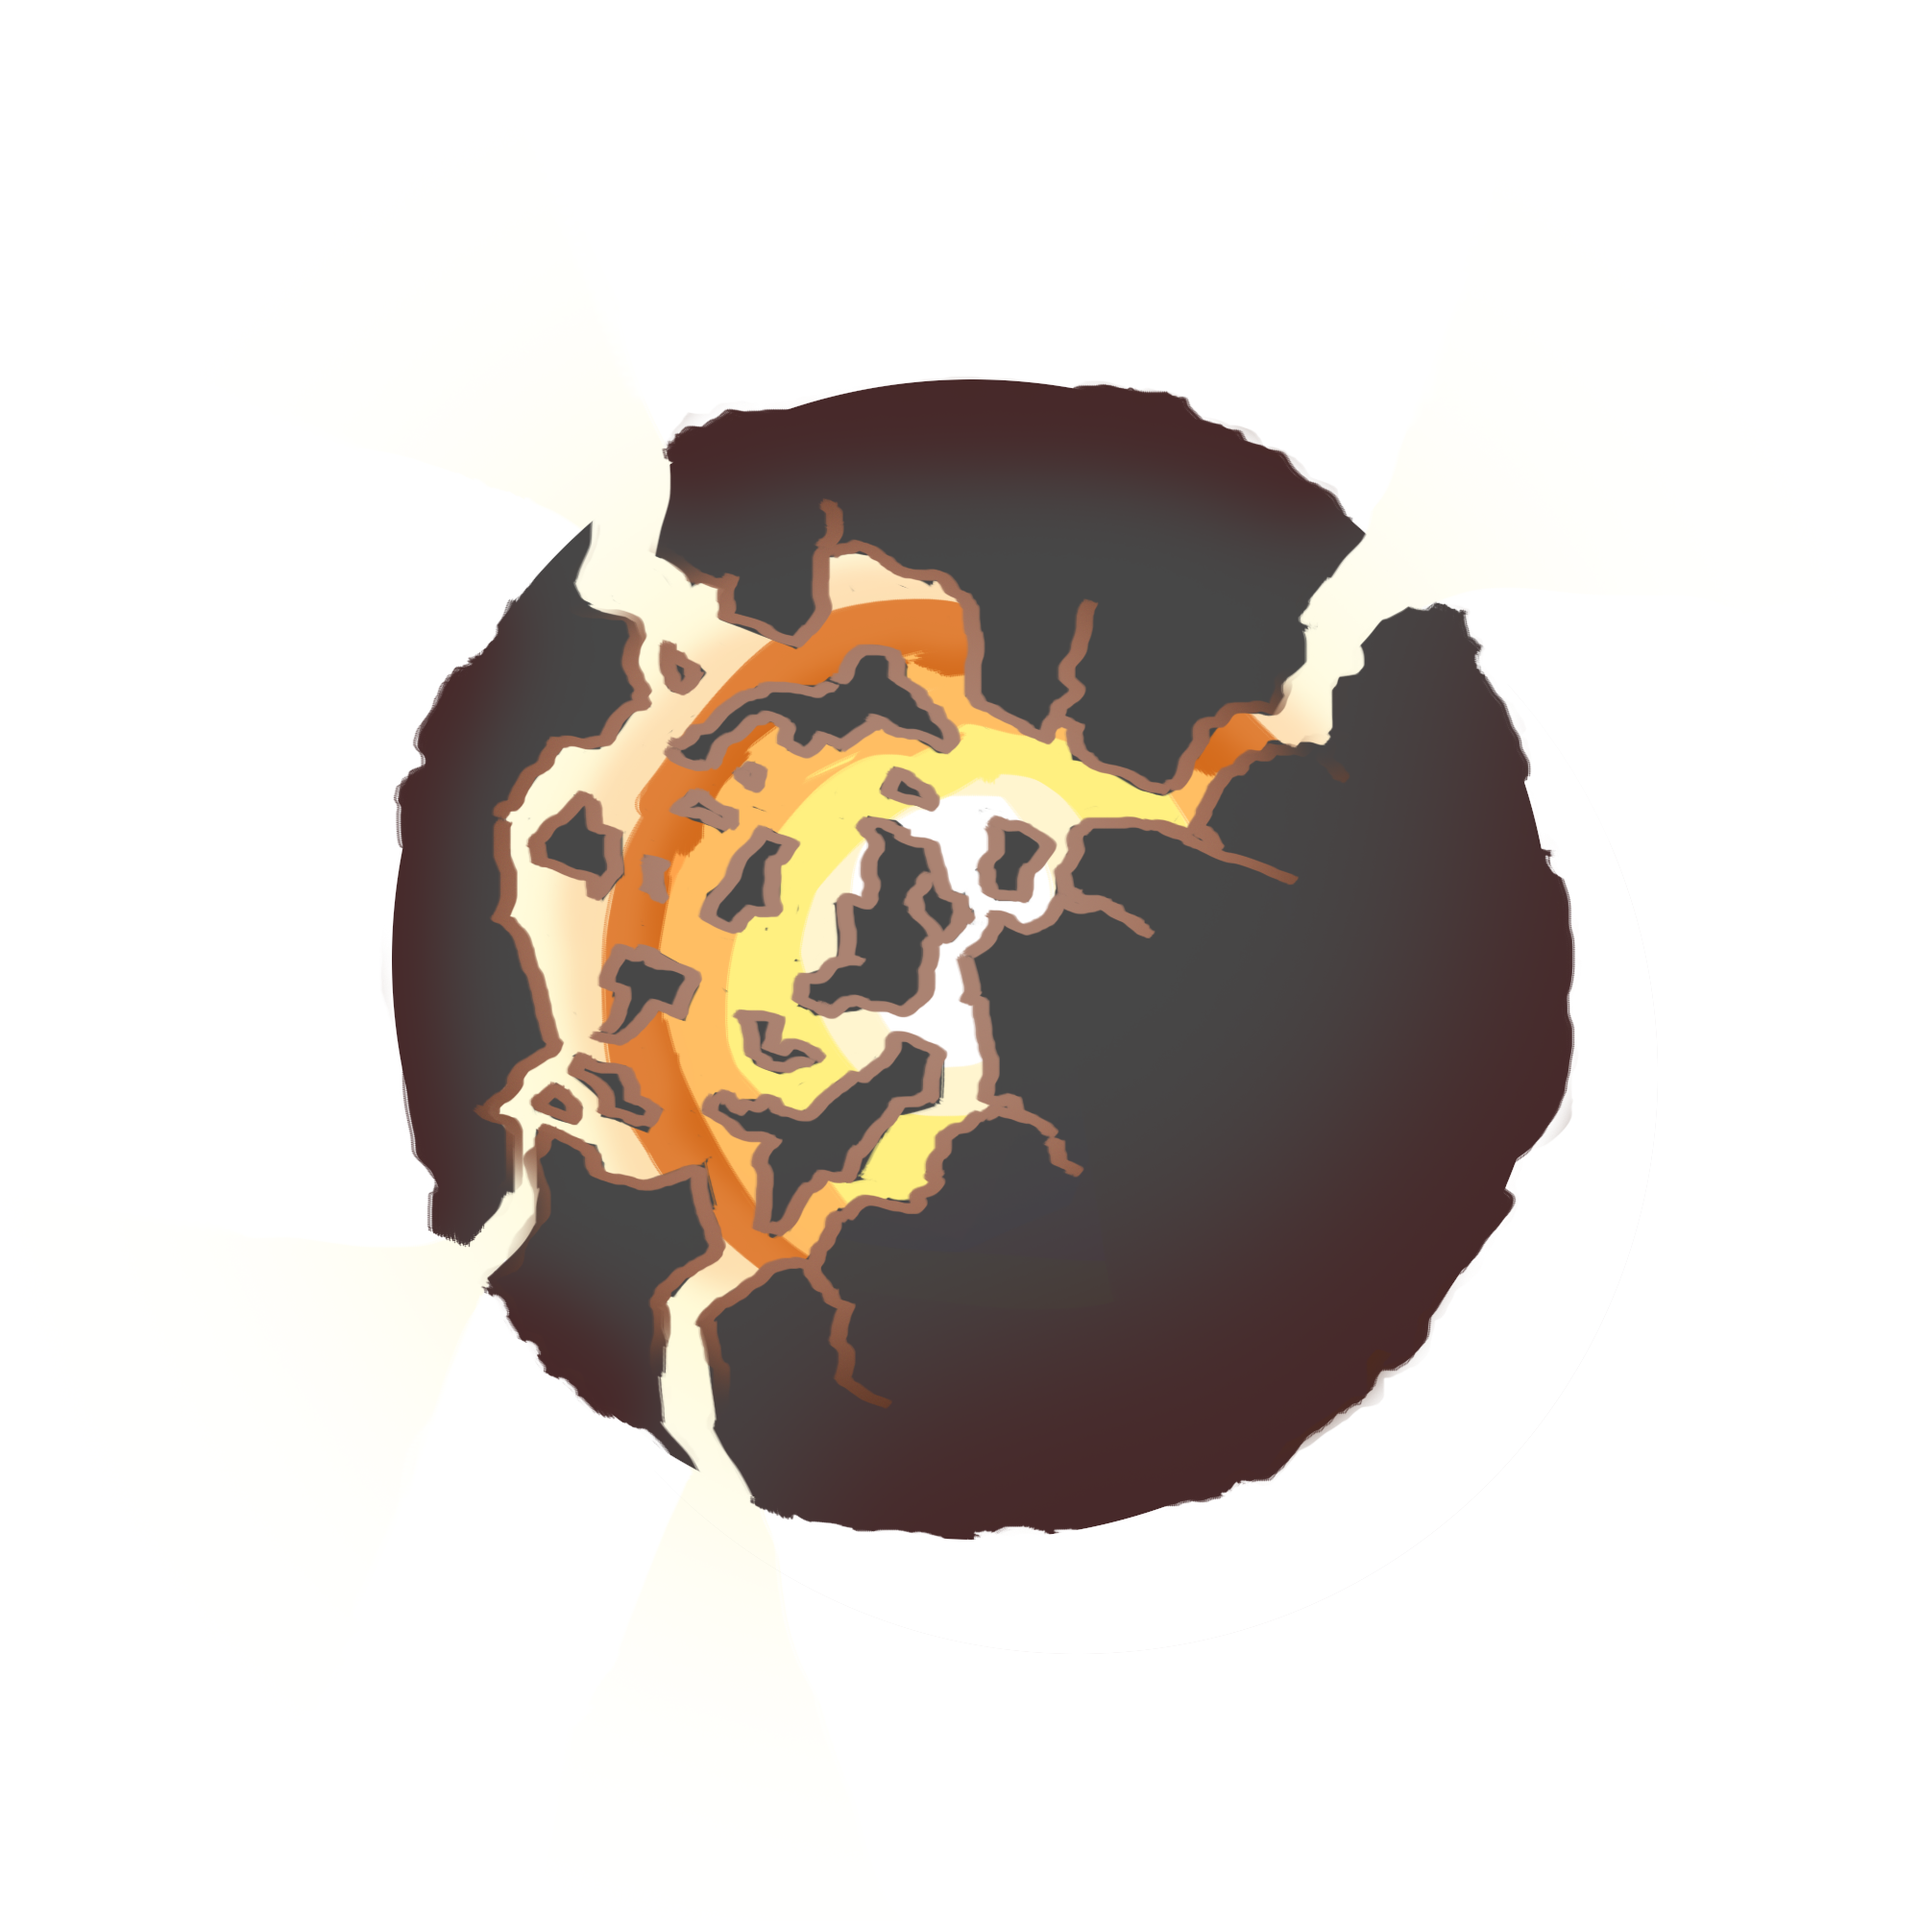
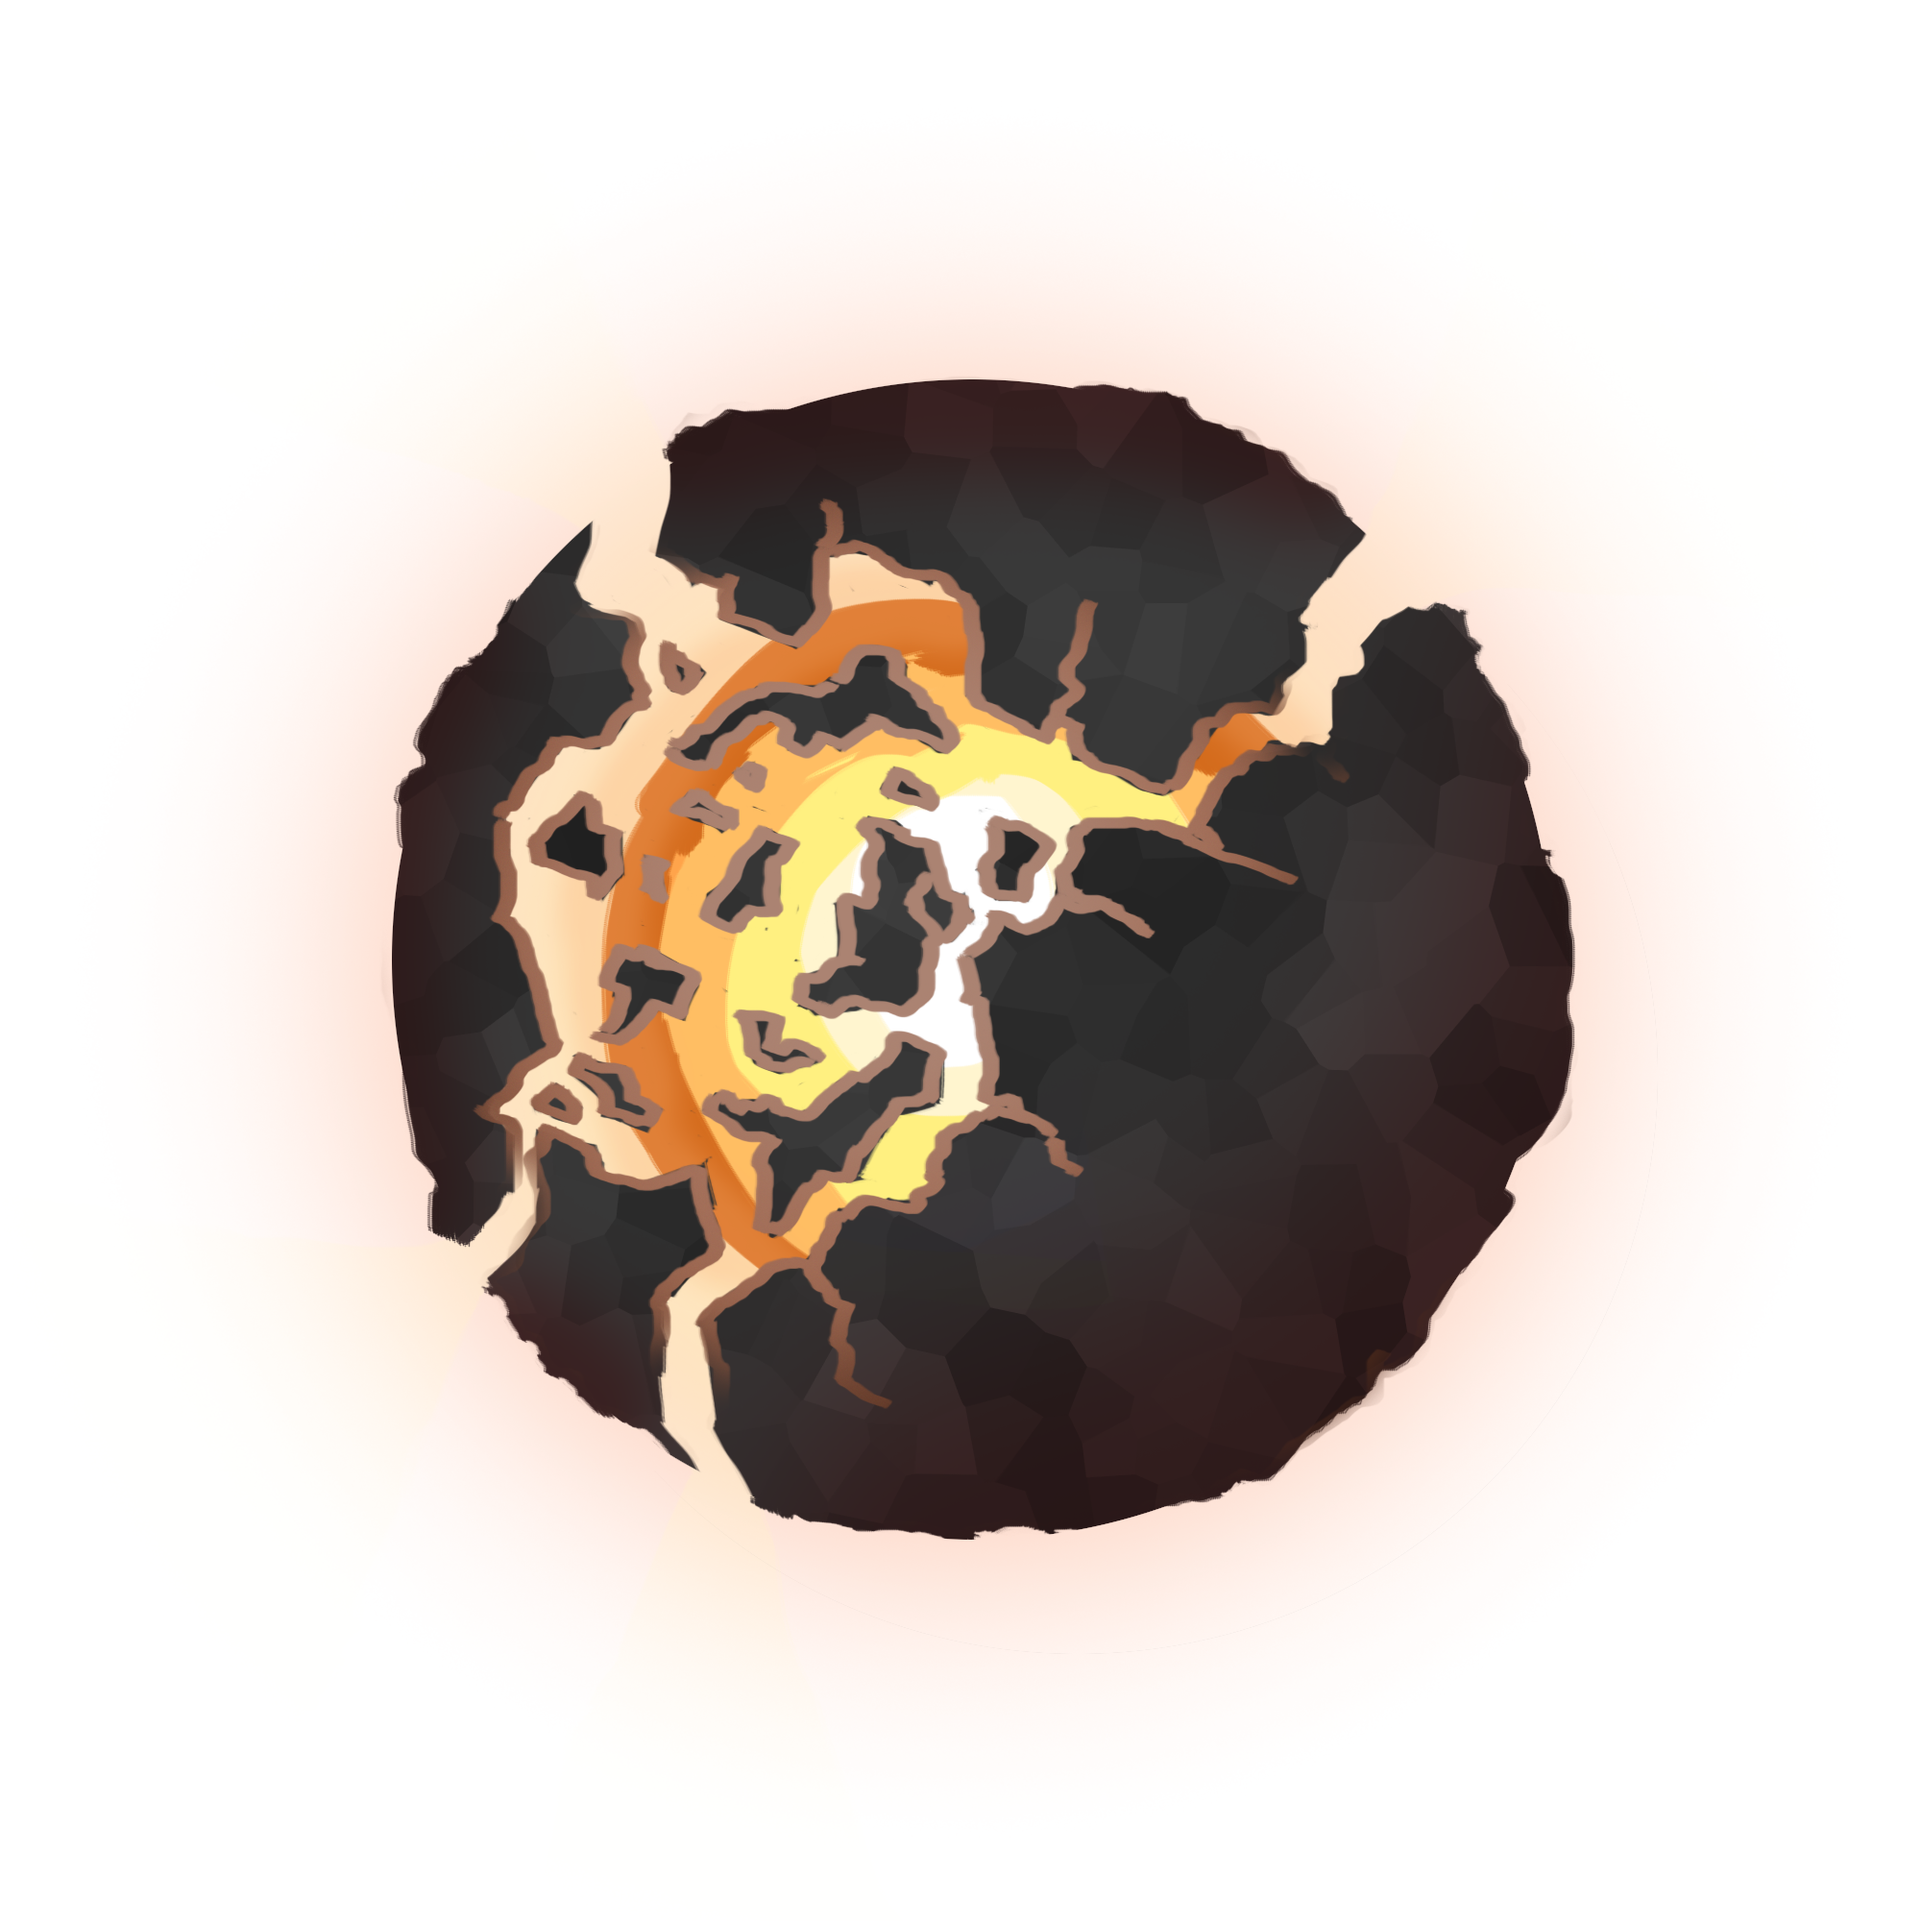
planets

Changed region(s): [[0.155, 0.155, 0.868, 0.868], [0.31, 0.496, 0.372, 0.527], [0.341, 0.372, 0.372, 0.403]]

diff --git a/0ca181a8-3bca-4e14-aaec-635fb5f7cb6a/Game1.cs b/0ca181a8-3bca-4e14-aaec-635fb5f7cb6a/Game1.cs
@@ -20,6 +20,9 @@ namespace _0ca181a8_3bca_4e14_aaec_635fb5f7cb6a
         public int ScreenWidth => 1600;
         public int ScreenHeight => 900;
 
+        public double ScaleHack = 2;
+
+
         public Game1()
         {
             _graphics = new GraphicsDeviceManager(this);
@@ -66,7 +69,8 @@ namespace _0ca181a8_3bca_4e14_aaec_635fb5f7cb6a
                 Content.Load<Texture2D>("Planet3"),
                 Content.Load<Texture2D>("Planet4"),
                 Content.Load<Texture2D>("Planet5"),
-                Content.Load<Texture2D>("Planet6")
+                Content.Load<Texture2D>("Planet6"),
+                Content.Load<Texture2D>("Planet7"),
             };
             Resources.BlueEngine = new List<Texture2D>(){
                 Content.Load<Texture2D>("Engines/blueng-512"),
@@ -81,6 +85,11 @@ namespace _0ca181a8_3bca_4e14_aaec_635fb5f7cb6a
                 Content.Load<Texture2D>("Engines/redeng2-512"),
                 Content.Load<Texture2D>("Engines/redeng3-512"),
                 Content.Load<Texture2D>("Engines/redeng4-512")
+            };
+            Resources.PulsingPlanet = new List<Texture2D>(){
+                Content.Load<Texture2D>("planet2-l1"),
+                Content.Load<Texture2D>("planet2-l2"),
+                Content.Load<Texture2D>("planet2-l3"),
             };
             Resources.PlayButton = Content.Load<Texture2D>("Bottoms/play1");
             Resources.PlayButtonHover = Content.Load<Texture2D>("Bottoms/play2");
@@ -123,10 +132,12 @@ namespace _0ca181a8_3bca_4e14_aaec_635fb5f7cb6a
             world.Planets.Add(new Planet(new Vector(600, 500), 100, 0));
             world.Planets.Add(new Planet(new Vector(900, 800), 50, 1));
             world.Planets.Add(new Planet(new Vector(950, 100), 50, 4));
-            world.Planets.Add(new Planet(new Vector(1100, 680), 100, 5));
+            //world.Planets.Add(new Planet(new Vector(1100, 680), 100, 5));
+            world.Planets.Add(new BlendedPlanet(new Vector(1100, 680), 100));
             world.Planets.Add(new Planet(new Vector(300, 800), 90, 1));
             world.Planets.Add(new Planet(new Vector(1100, 100), 50, 5));
-            world.Planets.Add(new Planet(new Vector(850, 600), 90, 2));
+            //world.Planets.Add(new Planet(new Vector(850, 600), 90, 2));
+            world.Planets.Add(new PulsingPlanet(new Vector(850, 600), 90));
 
             var playbackManager = new PlaybackManager();
 
@@ -149,6 +160,8 @@ namespace _0ca181a8_3bca_4e14_aaec_635fb5f7cb6a
         protected override void Draw(GameTime gameTime)
         {
             GraphicsDevice.Clear(Color.Black);
+
+
 
             _spriteBatch.Begin();
             _spriteBatch.Draw(

diff --git a/0ca181a8-3bca-4e14-aaec-635fb5f7cb6a/Sim/PulsingPlanet.cs b/0ca181a8-3bca-4e14-aaec-635fb5f7cb6a/Sim/PulsingPlanet.cs
@@ -1,0 +1,55 @@
+using System;
+using System.Collections.Generic;
+using System.Linq;
+using System.Text;
+using System.Threading.Tasks;
+using Microsoft.Xna.Framework;
+using Microsoft.Xna.Framework.Graphics;
+using Microsoft.Xna.Framework.Input;
+
+namespace _0ca181a8_3bca_4e14_aaec_635fb5f7cb6a.Sim
+{
+    class PulsingPlanet : Planet
+    {
+        public PulsingPlanet(Vector position, double radius) : base(position, radius, 2)
+        {
+        }
+
+        public override void Draw(SpriteBatch sb)
+        {
+            var brightness = (float)(0.7 + Math.Sin(Game1.GlobalTimer * 6) * 0.3);
+
+            sb.Draw(
+                Resources.PulsingPlanet[0],
+                new Rectangle((int)(Position.X - Radius * 1.7), (int)(Position.Y - Radius * 1.7),
+                (int)(Radius * 3.4), (int)(Radius * 3.4)),
+                Color.White);
+
+            sb.Draw(
+                Resources.PulsingPlanet[1],
+                new Rectangle((int)(Position.X - Radius * 1.7), (int)(Position.Y - Radius * 1.7),
+                (int)(Radius * 3.4), (int)(Radius * 3.4)),
+                Color.White * brightness);
+
+            sb.Draw(
+                Resources.PulsingPlanet[2],
+                new Rectangle((int)(Position.X - Radius * 1.7), (int)(Position.Y - Radius * 1.7),
+                (int)(Radius * 3.4), (int)(Radius * 3.4)),
+                Color.White);
+
+            if (Keyboard.GetState().IsKeyDown(Keys.Space))
+            {
+                sb.Draw(
+                    Resources.Circle,
+                    new Rectangle((int)(Position.X - Radius), (int)(Position.Y - Radius),
+                    (int)(Radius * 2), (int)(Radius * 2)),
+                    Color.Red * 0.5f);
+            }
+        }
+
+        public override Planet Clone()
+        {
+            return new PulsingPlanet(Position, Radius);
+        }
+    }
+}

diff --git a/0ca181a8-3bca-4e14-aaec-635fb5f7cb6a/Sim/BlendedPlanet.cs b/0ca181a8-3bca-4e14-aaec-635fb5f7cb6a/Sim/BlendedPlanet.cs
@@ -1,0 +1,45 @@
+using Microsoft.Xna.Framework;
+using Microsoft.Xna.Framework.Graphics;
+using Microsoft.Xna.Framework.Input;
+using System;
+
+namespace _0ca181a8_3bca_4e14_aaec_635fb5f7cb6a.Sim
+{
+    class BlendedPlanet : Planet
+    {
+        public BlendedPlanet(Vector position, double radius) : base(position, radius, 2)
+        {
+        }
+
+        public override void Draw(SpriteBatch sb)
+        {
+            var brightness = (float)(0.5 + Math.Sin(Game1.GlobalTimer / 10) * 0.3);
+
+            sb.Draw(
+                Resources.Planets[5],
+                new Rectangle((int)(Position.X - Radius * 1.7), (int)(Position.Y - Radius * 1.7),
+                (int)(Radius * 3.4), (int)(Radius * 3.4)),
+                Color.White);
+
+            sb.Draw(
+                Resources.Planets[6],
+                new Rectangle((int)(Position.X - Radius * 1.7), (int)(Position.Y - Radius * 1.7),
+                (int)(Radius * 3.4), (int)(Radius * 3.4)),
+                Color.White * brightness);
+
+            if (Keyboard.GetState().IsKeyDown(Keys.Space))
+            {
+                sb.Draw(
+                    Resources.Circle,
+                    new Rectangle((int)(Position.X - Radius), (int)(Position.Y - Radius),
+                    (int)(Radius * 2), (int)(Radius * 2)),
+                    Color.Red * 0.5f);
+            }
+        }
+
+        public override Planet Clone()
+        {
+            return new BlendedPlanet(Position, Radius);
+        }
+    }
+}

diff --git a/0ca181a8-3bca-4e14-aaec-635fb5f7cb6a/Sim/Planet.cs b/0ca181a8-3bca-4e14-aaec-635fb5f7cb6a/Sim/Planet.cs
@@ -16,7 +16,7 @@ namespace _0ca181a8_3bca_4e14_aaec_635fb5f7cb6a.Sim
             this.planetIndex = planetIndex;
         }
 
-        public void Draw(SpriteBatch sb)
+        public virtual void Draw(SpriteBatch sb)
         {
             
             sb.Draw(
@@ -36,7 +36,12 @@ namespace _0ca181a8_3bca_4e14_aaec_635fb5f7cb6a.Sim
 
         }
 
-        public Planet Clone()
+        public virtual void Update(double dt)
+        {
+
+        }
+
+        public virtual Planet Clone()
         {
             return new Planet(Position, Radius, planetIndex);
         }

diff --git a/0ca181a8-3bca-4e14-aaec-635fb5f7cb6a/Resources.cs b/0ca181a8-3bca-4e14-aaec-635fb5f7cb6a/Resources.cs
@@ -40,5 +40,6 @@ namespace _0ca181a8_3bca_4e14_aaec_635fb5f7cb6a
         public static List<Texture2D> BlueExplosion;
         public static List<Texture2D> RedExplosion;
         public static Texture2D Background;
+        public static List<Texture2D> PulsingPlanet;
     }
 }
